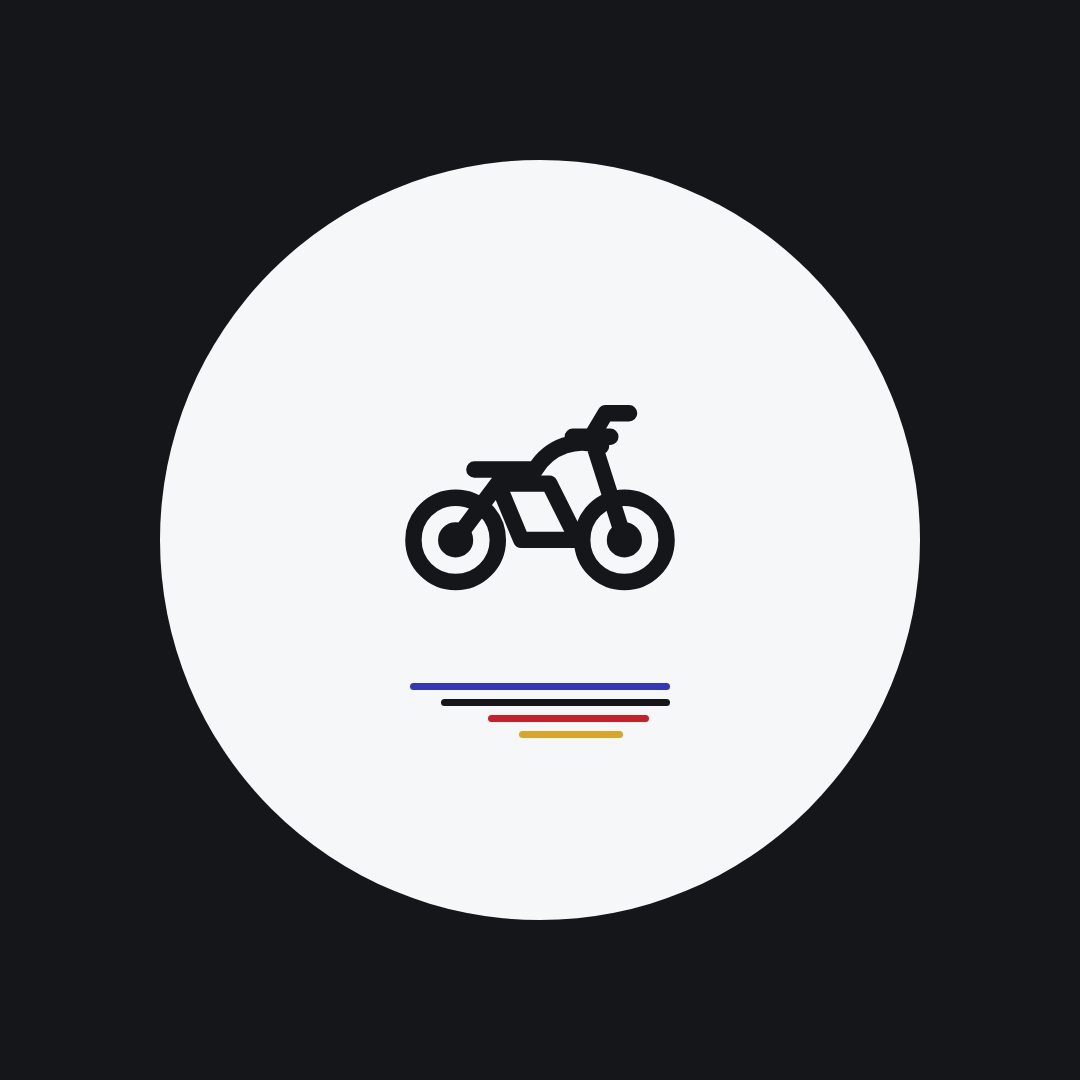
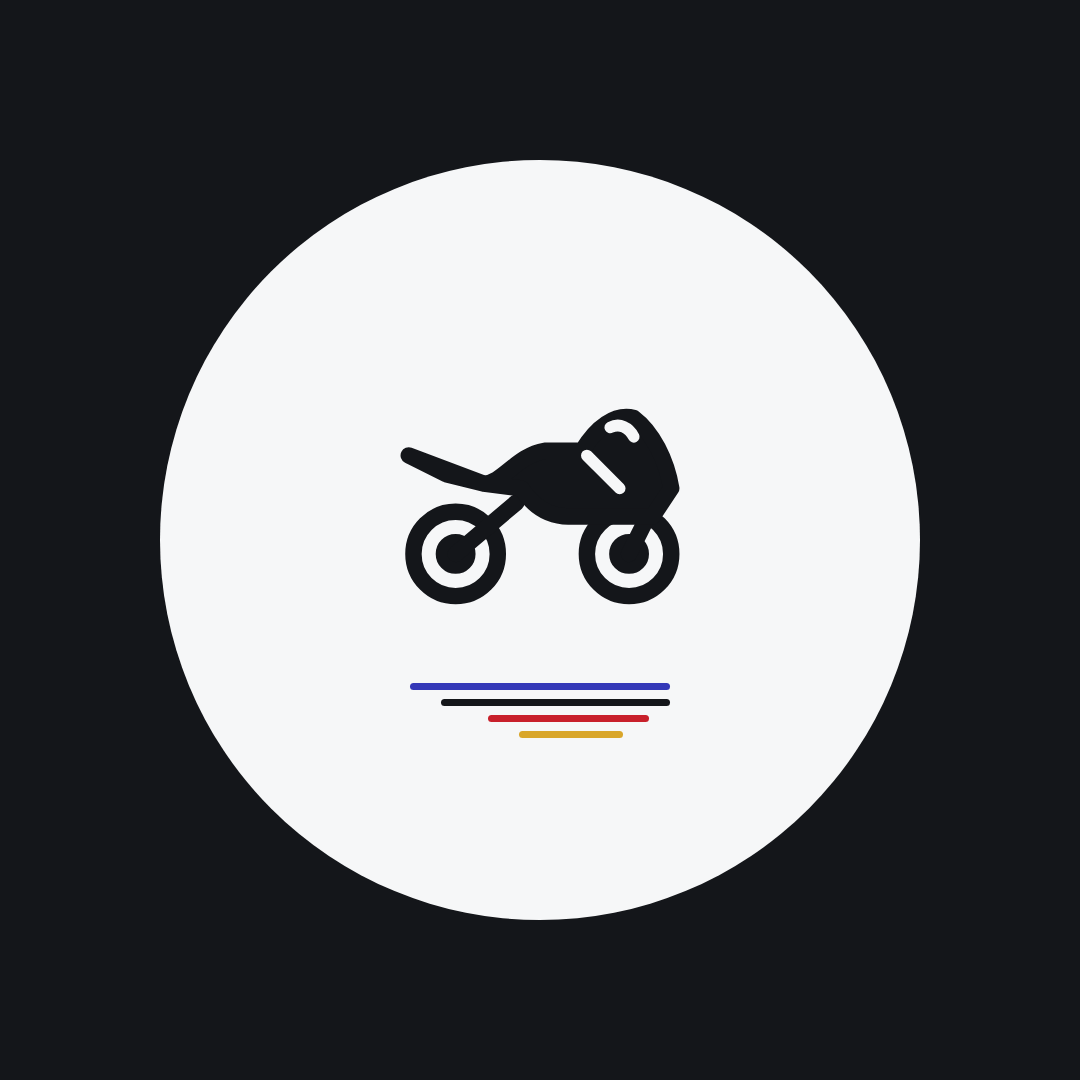
Destacada Motos: superbike (pedido del dueño)
Claude-Session: https://claude.ai/code/session_01Waia73eHNWtSrif5AzmwHD

Changed region(s): [[0.3667, 0.3667, 0.6417, 0.5806]]

diff --git a/herramientas/build/generar-posts.js b/herramientas/build/generar-posts.js
@@ -89,7 +89,7 @@ const DESTACADAS = [
   ["como-trabajamos", "Cómo trabajamos", "M28 12a16 16 0 1 0 0 32 16 16 0 0 0 0-32zm12 28 14 14"],
   ["detailing", "Detailing", '<path transform="matrix(-1 0 0 1 64 3)" d="M12 18h38a6 6 0 0 1 0 12H12zm24 4v4m5-4v4m5-4v4M12 30h18v6H12zM6 40h30a2 2 0 0 1 2 2v4a2 2 0 0 1-2 2H6a2 2 0 0 1-2-2v-4a2 2 0 0 1 2-2zm3-4h24M16 18v-6h10v6m30 6c4 0 6 3 6 8v6M52 4c0 4 1 5 5 5-4 0-5 1-5 5 0-4-1-5-5-5 4 0 5-1 5-5z"/>'],
   ["car-culture", "Car culture", '<path d="M32 15c-5-3-8-6-8-9a4 4 0 0 1 8-1 4 4 0 0 1 8 1c0 3-3 6-8 9z" fill="#e11d2e" stroke="#e11d2e" stroke-width="2"/><path d="M8 40l7-15c1-3 3-5 7-5h20c4 0 6 2 7 5l7 15v12H8zm9-10 3-6h24l3 6zM4 34h6m44 0h6M24 44h16M12 52v4h8v-4m24 0v4h8v-4"/><circle cx="17" cy="43" r="3.5"/><circle cx="47" cy="43" r="3.5"/>'],
-  ["motos", "Motos", '<circle cx="14" cy="42" r="9"/><circle cx="50" cy="42" r="9"/><circle cx="14" cy="42" r="2" fill="#14161a"/><circle cx="50" cy="42" r="2" fill="#14161a"/><path d="M14 42l9-12h11l6 12H28l-5-12M50 42l-7-22m-4 0h8m-4 0 3-5h5M18 27h13c3-5 9-7 14-5"/>'],
+  ["motos", "Motos", '<circle cx="14" cy="45" r="9"/><circle cx="51" cy="45" r="9"/><circle cx="14" cy="45" r="2.5" fill="#14161a"/><circle cx="51" cy="45" r="2.5" fill="#14161a"/><path d="M27 34 14 45M55 37l-4 8"/><path fill="#14161a" d="M4 24l16 6c4 0 7-6 13-7h8c3-5 7-8 11-7 4 3 7 9 8 15l-4 6H38c-5 0-8-3-10-6l-8-1-8-2z"/><path stroke="#f6f7f8" stroke-width="2.5" d="M42 24l7 7M47 18c2-1 4 0 5 2"/>'],
   ["proyectos", "Proyectos", '<svg viewBox="0 0 100 64"><g fill="none" stroke="#14161a" stroke-width="3" stroke-linecap="round" stroke-linejoin="round"><path d="M6 48V38l2-3h14l10-11h26l9 10 19 3 8 3v5l-3 3h-7a8 8 0 0 0-16 0H32a8 8 0 0 0-16 0z"/><path d="M27 34l7-7h11v7z"/><path d="M49 34v-7h8l6 7z"/><path d="M3 27h20M8 27l1 8M18 27l-1 8"/><circle cx="24" cy="48" r="5.6"/><circle cx="76" cy="48" r="5.6"/><circle cx="24" cy="48" r="1.2" fill="#14161a"/><circle cx="76" cy="48" r="1.2" fill="#14161a"/><g transform="translate(74 3) scale(.92)" stroke-width="3.26"><path d="M14.7 6.3a1 1 0 0 0 0 1.4l1.6 1.6a1 1 0 0 0 1.4 0l3.77-3.77a6 6 0 0 1-7.94 7.94l-6.91 6.91a2.12 2.12 0 0 1-3-3l6.91-6.91a6 6 0 0 1 7.94-7.94l-3.76 3.76z"/></g></g></svg>'],
 ];
 
